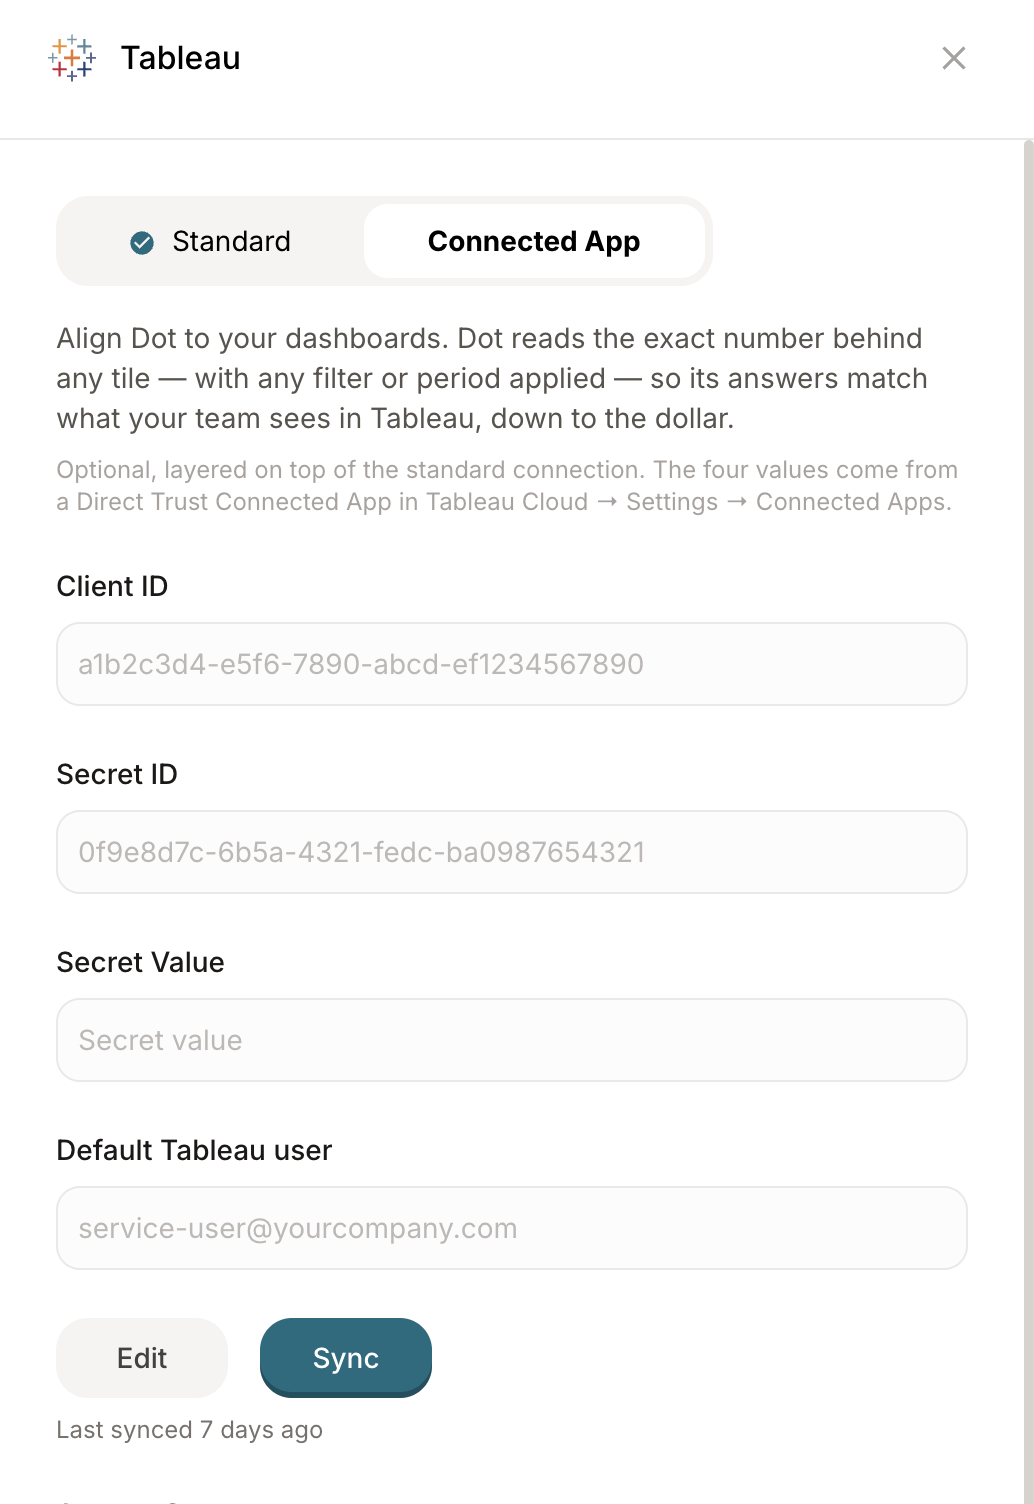
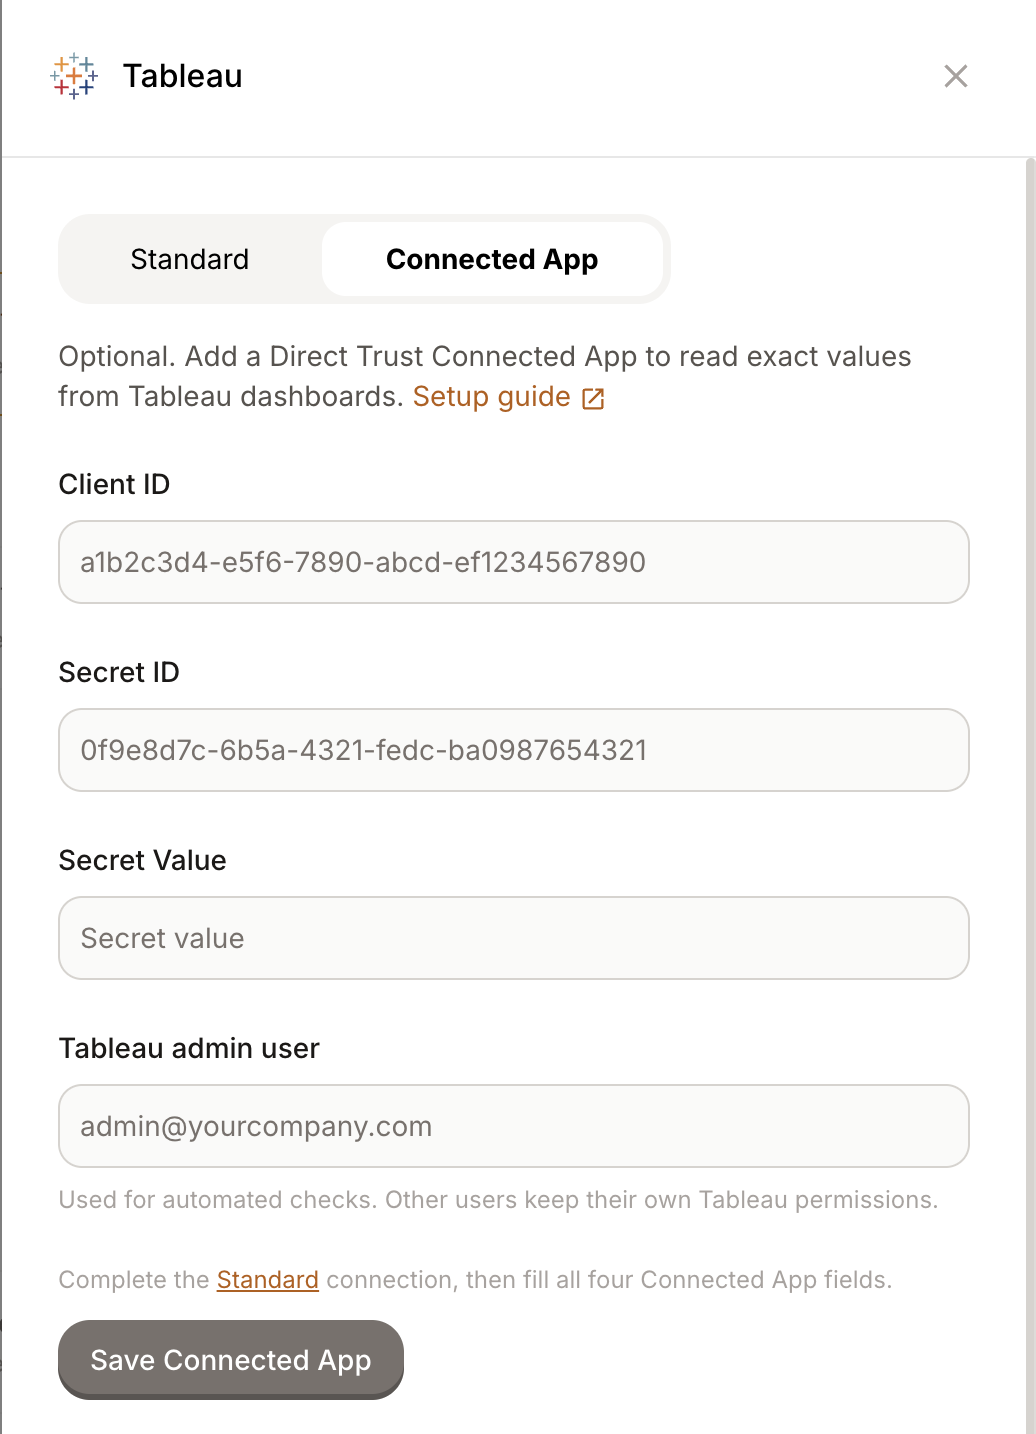
docs: clarify Tableau connection setup

diff --git a/dot/dot/integrations/bi-tools/tableau.md b/dot/dot/integrations/bi-tools/tableau.md
@@ -1,84 +1,119 @@
 # Tableau
 
-Both Tableau Cloud (Online) or Tableau Server (2019.3 or later) are supported.
+Dot supports Tableau Cloud and Tableau Server 2019.3 or later. Connect Tableau in two stages:
 
-## Tableau Online <a href="#tableau-online" id="tableau-online"></a>
+| Connection | Required | Used for |
+| --- | --- | --- |
+| **Standard** | Yes | Syncing workbooks, views and data sources; adding metadata and lineage when available |
+| **Connected App** | Optional | Reading the exact values shown in dashboard tiles |
 
-**Authentication**
+## Standard connection
 
-Generate a Personal Access Token with a user who is either "Site Admin Explorer" or "Site Admin Creator".
+The Standard connection uses a Personal Access Token (PAT). Set this up first for both Tableau Cloud and Tableau Server.
 
-1. Open “My Account Settings“
+### 1. Create a Personal Access Token in Tableau
 
-![](https://docs.sled.so/~gitbook/image?url=https%3A%2F%2F2457798860-files.gitbook.io%2F%7E%2Ffiles%2Fv0%2Fb%2Fgitbook-x-prod.appspot.com%2Fo%2Fspaces%252FEdkjXblQVFxdE5uvkTZt%252Fuploads%252Fbqm2rhWu90uUXeiDhJAW%252Fgrafik.png%3Falt%3Dmedia%26token%3D42f9c7de-8267-43c5-af2c-ec953084ad46\&width=300\&dpr=4\&quality=100\&sign=606aa2ae\&sv=2)
+Use a Tableau user with the **Site Admin Explorer** or **Site Admin Creator** role.
 
-2\. Go to the section “Personal Access Tokens”
+1. Open **My Account Settings**.
 
-![](https://docs.sled.so/~gitbook/image?url=https%3A%2F%2F2457798860-files.gitbook.io%2F%7E%2Ffiles%2Fv0%2Fb%2Fgitbook-x-prod.appspot.com%2Fo%2Fspaces%252FEdkjXblQVFxdE5uvkTZt%252Fuploads%252FLlV9TCmQmJBK3a5OlfVM%252Fgrafik.png%3Falt%3Dmedia%26token%3Dca573f80-d452-418d-9ebb-bbf5bb8e4427\&width=768\&dpr=4\&quality=100\&sign=bd2ab74e\&sv=2)
+![Tableau account menu with My Account Settings](https://docs.sled.so/~gitbook/image?url=https%3A%2F%2F2457798860-files.gitbook.io%2F%7E%2Ffiles%2Fv0%2Fb%2Fgitbook-x-prod.appspot.com%2Fo%2Fspaces%252FEdkjXblQVFxdE5uvkTZt%252Fuploads%252Fbqm2rhWu90uUXeiDhJAW%252Fgrafik.png%3Falt%3Dmedia%26token%3D42f9c7de-8267-43c5-af2c-ec953084ad46&width=300&dpr=4&quality=100&sign=606aa2ae&sv=2)
 
-3\. Create new token
+2. Find **Personal Access Tokens**.
 
-![](https://docs.sled.so/~gitbook/image?url=https%3A%2F%2F2457798860-files.gitbook.io%2F%7E%2Ffiles%2Fv0%2Fb%2Fgitbook-x-prod.appspot.com%2Fo%2Fspaces%252FEdkjXblQVFxdE5uvkTZt%252Fuploads%252FeZwVf7mYcTPLPKUySC3S%252Fgrafik.png%3Falt%3Dmedia%26token%3Dab3c7dd0-e124-4aee-aa4d-936268c67121\&width=300\&dpr=4\&quality=100\&sign=3beb599f\&sv=2)
+![Personal Access Tokens section in Tableau](https://docs.sled.so/~gitbook/image?url=https%3A%2F%2F2457798860-files.gitbook.io%2F%7E%2Ffiles%2Fv0%2Fb%2Fgitbook-x-prod.appspot.com%2Fo%2Fspaces%252FEdkjXblQVFxdE5uvkTZt%252Fuploads%252FLlV9TCmQmJBK3a5OlfVM%252Fgrafik.png%3Falt%3Dmedia%26token%3Dca573f80-d452-418d-9ebb-bbf5bb8e4427&width=768&dpr=4&quality=100&sign=bd2ab74e&sv=2)
 
-4\. Copy token secret to clipboard and save it. This token is valid for 1 year and will need to be refreshed.
+3. Enter a name and select **Create new token**.
 
+![Create a new Personal Access Token in Tableau](https://docs.sled.so/~gitbook/image?url=https%3A%2F%2F2457798860-files.gitbook.io%2F%7E%2Ffiles%2Fv0%2Fb%2Fgitbook-x-prod.appspot.com%2Fo%2Fspaces%252FEdkjXblQVFxdE5uvkTZt%252Fuploads%252FeZwVf7mYcTPLPKUySC3S%252Fgrafik.png%3Falt%3Dmedia%26token%3Dab3c7dd0-e124-4aee-aa4d-936268c67121&width=300&dpr=4&quality=100&sign=3beb599f&sv=2)
 
+4. Copy the token name and secret and store the secret securely.
 
-## **Tableau Server** <a href="#tableau-server" id="tableau-server"></a>
+### 2. Connect in Dot
 
-The setup is identical to Tableau Cloud. If your server is not reachable from the internet, please coordinate with our customer success team [hi@getdot.ai](mailto:hi@getdot.ai) — a typical network setup uses OpenVPN.
+Open the Tableau connection in Dot and stay on the **Standard** tab. Enter:
 
+- **Server URL**
+- **Site ID**, if you do not use the default site
+- **Token Name**
+- **Token Value**
 
+Select **Connect** and wait for the first sync to finish. You can then curate the synced Tableau content under **Model → External assets**.
 
-## Connected App <a href="#connected-app" id="connected-app"></a>
+<figure><img src="../../../.gitbook/assets/image (10).png" alt="Standard Tableau connection fields in Dot"><figcaption></figcaption></figure>
 
-1. In Tableau, go to **Settings → Connected Apps** and create a new app of type **Direct Trust**. On Tableau Server this lives in the site settings and requires version 2022.1 or later (earlier versions expose connected apps only via the REST API).
-2. Add the Dot host your workspace runs on to the app's domain allowlist — Tableau refuses the embed otherwise.
-3. Generate a secret and copy three values: **Client ID**, **Secret ID** and **Secret Value**. Secret ID and Secret Value are easy to mix up.
+## Connected App
 
+Add a Connected App after the Standard connection if you want Dot to read the exact values shown in Tableau dashboard tiles, including the active filters and period.
 
+### 1. Create a Direct Trust Connected App in Tableau
 
-## Connect in Dot
+1. Go to **Settings → Connected Apps** and create an app of type **Direct Trust**, not OAuth 2.0. On Tableau Server, the UI is available in version 2022.1 or later; version 2021.4 supports connected apps through the REST API only.
+2. Add the Dot host where your workspace runs to the app's domain allowlist.
+3. Enable the Connected App. Tableau creates new apps in a disabled state.
+4. Generate a secret and copy the **Client ID**, **Secret ID** and **Secret Value**.
 
-Enter your details, hit connect and watch it sync. As soon as it's done, you can head over to **Model /External assets** to further curate what Dot should know about.
+See Tableau's guide to [configuring a Direct Trust Connected App](https://help.tableau.com/current/server/en-gb/connected_apps_direct.htm).
 
-The Tableau connection has two tabs. **Standard** takes the Server URL, Token Name and Token Value, and covers browsing, lineage and metadata. **Connected App** layers on top of a completed Standard connection and lets Dot read the exact values shown on a tile.
+### 2. Connect it in Dot
+
+Open the existing Tableau connection and select the **Connected App** tab. Enter:
+
+- **Client ID**
+- **Secret ID**
+- **Secret Value**
+- **Tableau admin user**
+
+<figure><img src="../../../.gitbook/assets/tableau-connected-app-tab.png" alt="Connected App fields in the Tableau connection in Dot"><figcaption></figcaption></figure>
+
+Use an existing licensed Tableau administrator who can access the workbooks Dot should check. Dot uses this account for automated checks. Other users keep their own Tableau permissions.
+
+Select **Save Connected App**. Dot checks the configuration and shows when it was verified or why it failed. Use **Run check again** to retest it later without re-entering the credentials.
+
+## Tableau Server setup
+
+Tableau Cloud manages the services and network access described below. If you use Tableau Server, review the requirements for each connection.
+
+### Standard connection
+
+#### Network access
+
+Dot must be able to reach the Tableau Server URL. Allow Dot's service IPs, `5.78.211.110` and `178.105.217.177`, to access `/api/*`.
+
+If the server is not reachable from the internet, coordinate with our customer success team at [hi@getdot.ai](mailto:hi@getdot.ai). A typical private-network setup uses OpenVPN.
+
+#### Metadata API for full lineage
+
+The Standard connection works without the Metadata API: Dot can still list workbooks and views. Enable the Metadata API if you want Dot to also sync lineage to warehouse tables and calculated-field definitions.
+
+The Metadata API is installed and disabled by default on Tableau Server. The **Tableau Catalog** checkbox in the site UI is separate and does not confirm that the server-level Metadata API is running.
+
+Ask a Tableau Server administrator to verify the service from the initial server node:
+
+```bash
+tsm maintenance metadata-services get-status
+```
+
+If Dot receives `403 Forbidden` from `/relationship-service-war/graphql`, the server is reachable but the Metadata API is not enabled.
+
+If the Metadata API is not running or its store is not initialized, enable it with:
+
+```bash
+tsm maintenance metadata-services enable
+```
+
+Enabling it starts metadata indexing and temporarily restarts some Tableau services. See [Tableau's Metadata API guide](https://www.tableau.com/developer/learning/metadata-api#tab-325797-0).
 
 ### Connected App
 
-Fill all four fields: **Client ID**, **Secret ID**, **Secret Value**, and **Tableau admin user**.
+Dot reads exact values through Tableau's Embedding API in a server-side browser. Allow the same Dot service IPs to reach these additional paths:
 
-For the admin user, pick an existing licensed Tableau login, ideally an admin so it can see every workbook. Dot does not create a new user and does not need another licence. Dot uses this account for its own automated checks. Everyone else is impersonated by their own email.
+- `/auth/*`
+- `/javascripts/*`
+- `/views/*`
+- `/vizql/*`
+- `/vizportal/*`
 
-After you save, Dot runs a check and shows the result on the connection: when it was verified, or why it failed. The status stays there, so you can come back to it later. Click **Run check again** to retest without re-entering the credentials. Saving new credentials clears the old result.
+If an identity-aware proxy or corporate SSO gateway sits in front of Tableau, it may redirect those browser requests to an interactive login page before they reach Tableau. In that case, the Standard connection can sync successfully while the Connected App check fails.
 
-{% hint style="info" %}
-A filled-in form is not a working connection. Trust the status row, not the fact that the fields have text in them.
-{% endhint %}
-
-### Tableau behind an identity-aware proxy
-
-To read exact tile values, Dot loads Tableau's Embedding API in a browser on its own server. If your Tableau sits behind a corporate SSO gateway, that proxy intercepts the browser and redirects it to your identity provider, so the script never loads.
-
-The check names the proxy when this happens, for example `login.microsoftonline.com`. The server URL is correct and reachable in this case. The proxy is what blocks Dot.
-
-To fix it, ask whoever runs the proxy to exempt Dot, either by its egress IP or by the Tableau embed paths. Everything that goes through the REST API, including browsing, lineage and exports, keeps working while you sort this out.
-
-<figure><img src="../../../.gitbook/assets/image (10).png" alt=""><figcaption></figcaption></figure>
-
-Open the connection's **Connected App** tab, paste the three values from Tableau and enter the email of a Tableau admin user.
-
-<figure><img src="../../../.gitbook/assets/tableau-connected-app-tab.png" alt=""><figcaption></figcaption></figure>
-
-Use an existing licensed Tableau login, ideally an admin so it can see every workbook — Dot does not create a user and does not need an extra licence. When someone asks a question, Tableau applies that person's own permissions, so everyone sees exactly what they already see in Tableau.
-
-
-
-## What Dot needs access to <a href="#what-dot-needs-access-to" id="what-dot-needs-access-to"></a>
-
-The same three things apply to Tableau Cloud and Tableau Server:
-
-1. The **Metadata API** is enabled. On Tableau Cloud it always is. On Tableau Server an administrator enables it once with `tsm maintenance metadata-services enable` — see [Tableau's guide](https://help.tableau.com/current/api/metadata_api/en-us/docs/meta_api_start.html#enable-the-tableau-metadata-api-for-tableau-server). Without it Dot still lists workbooks and views, but loses the lineage to warehouse tables and can't see calculated-field definitions. You can tell this apart from a broken server by the error: the metadata request comes back `403 Forbidden` from `/relationship-service-war/graphql`, which means the service is running and answering — the API just isn't switched on yet.
-
-2. Dot's IPs are allowlisted: `5.78.211.110` and `178.105.217.177`.
-3. The paths Dot needs are reachable: `/api/*` for catalog and metadata, and — for exact tile values — `/auth/*`, `/javascripts/*`, `/views/*`, `/vizql/*` and `/vizportal/*`. If only `/api/*` is reachable, the connection looks healthy and the catalog syncs, while exact values silently don't work.
+Ask whoever manages the proxy to exempt Dot's service IPs for the paths above. When Dot detects a redirect, the connection check names the identity provider that intercepted it.
